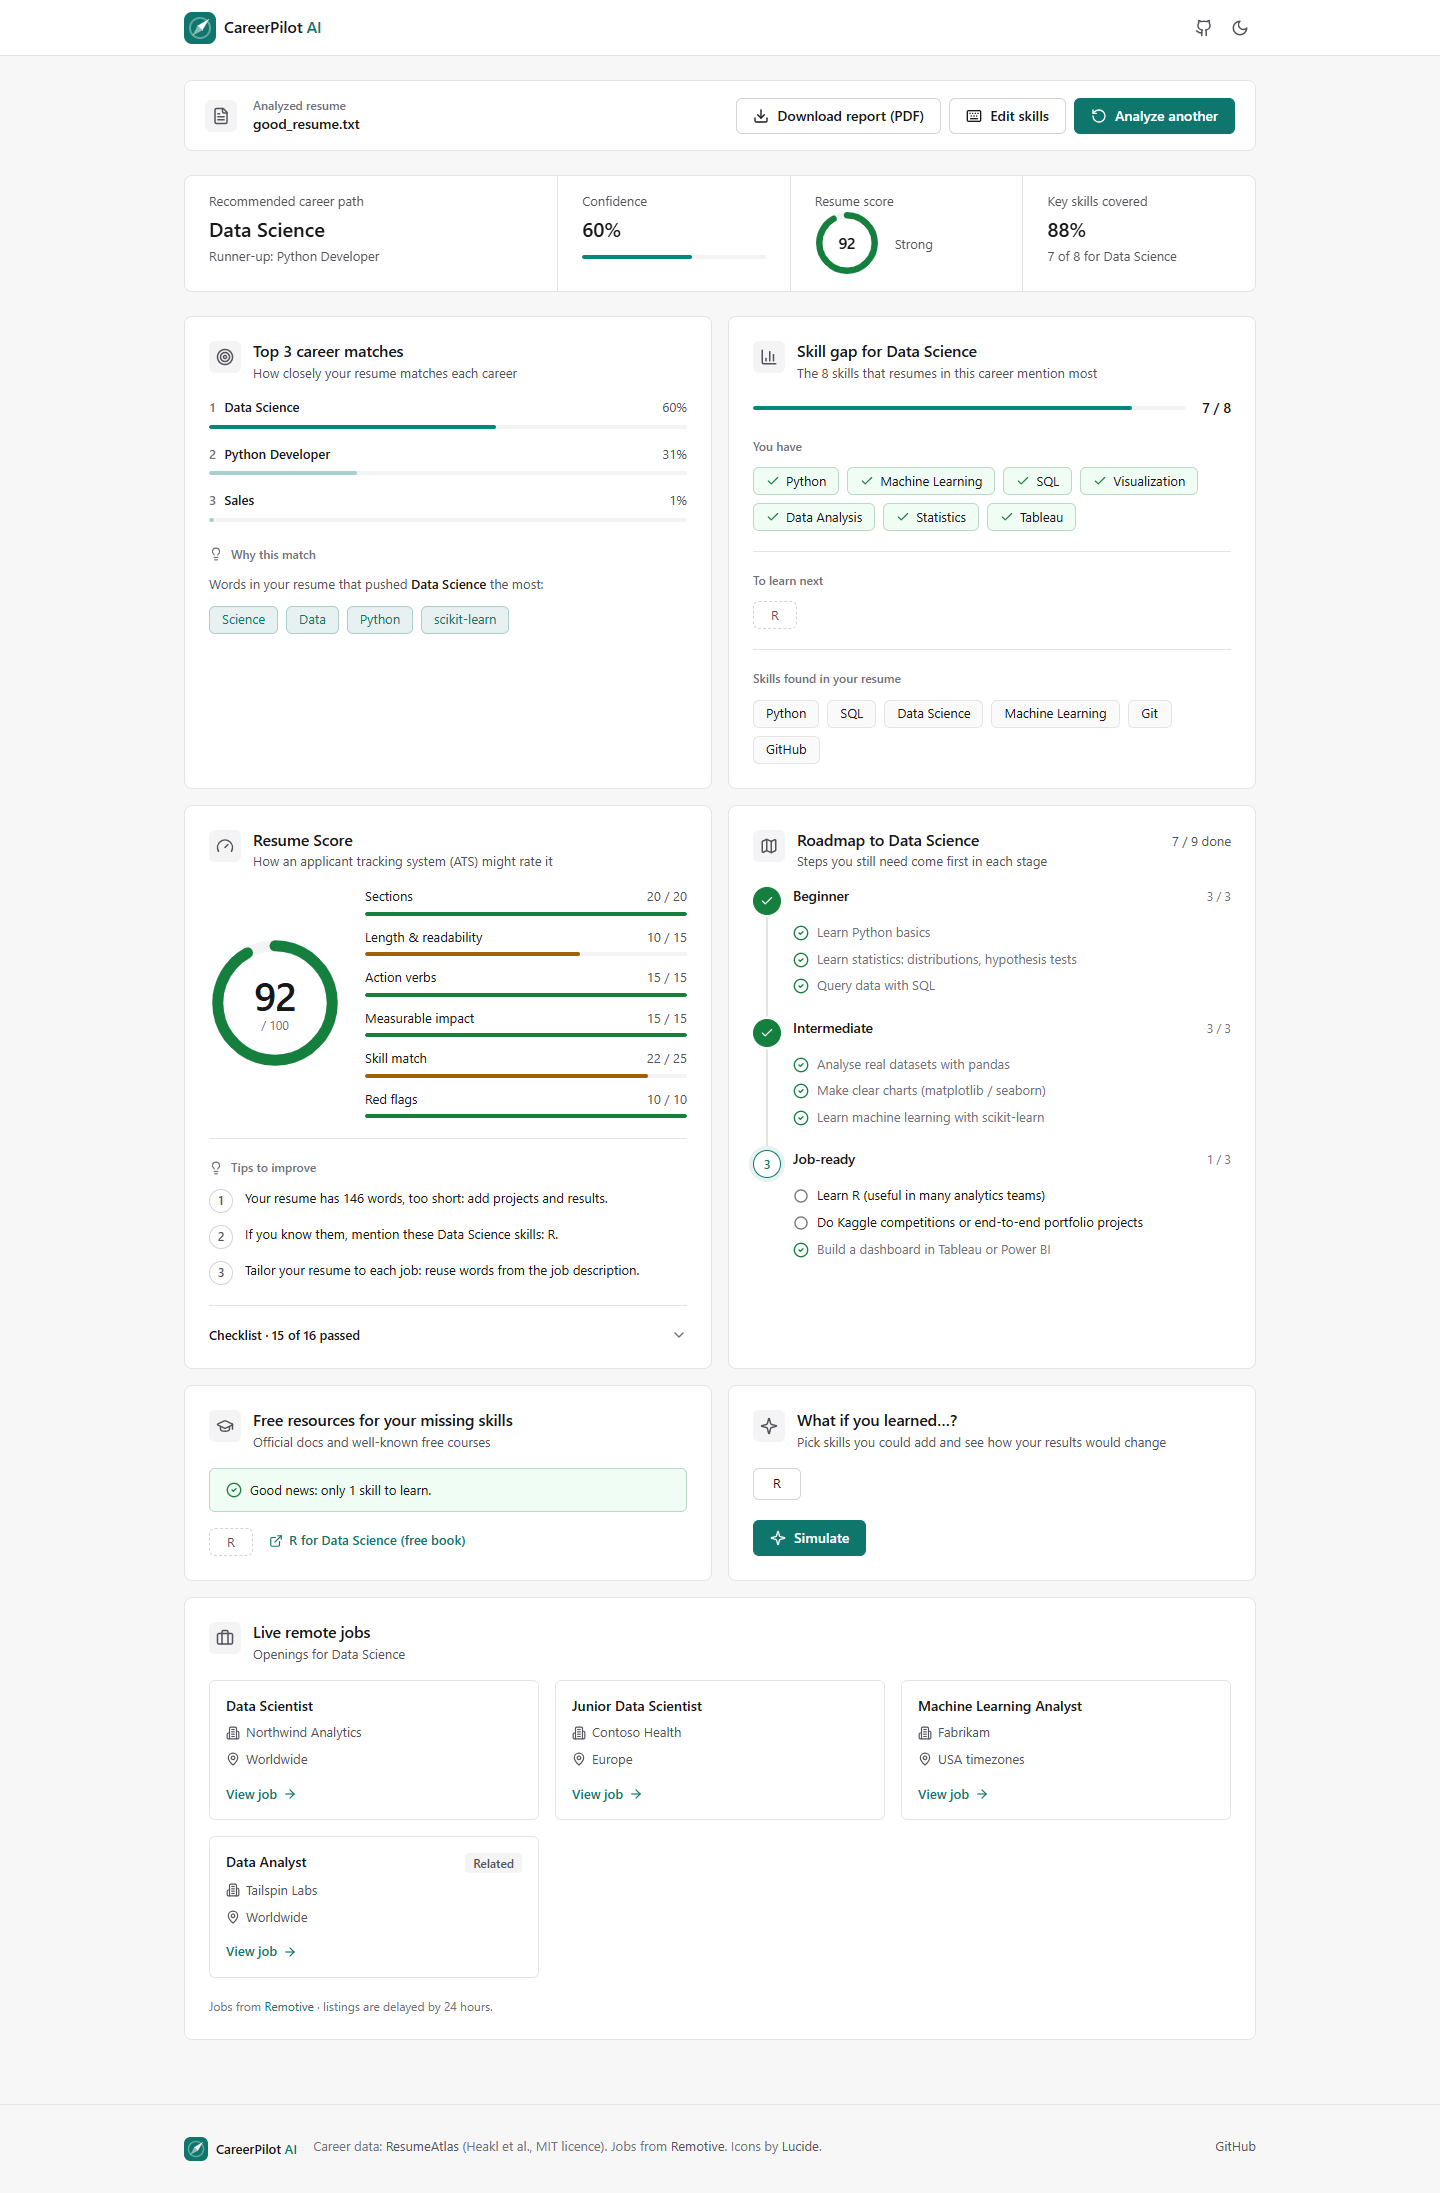
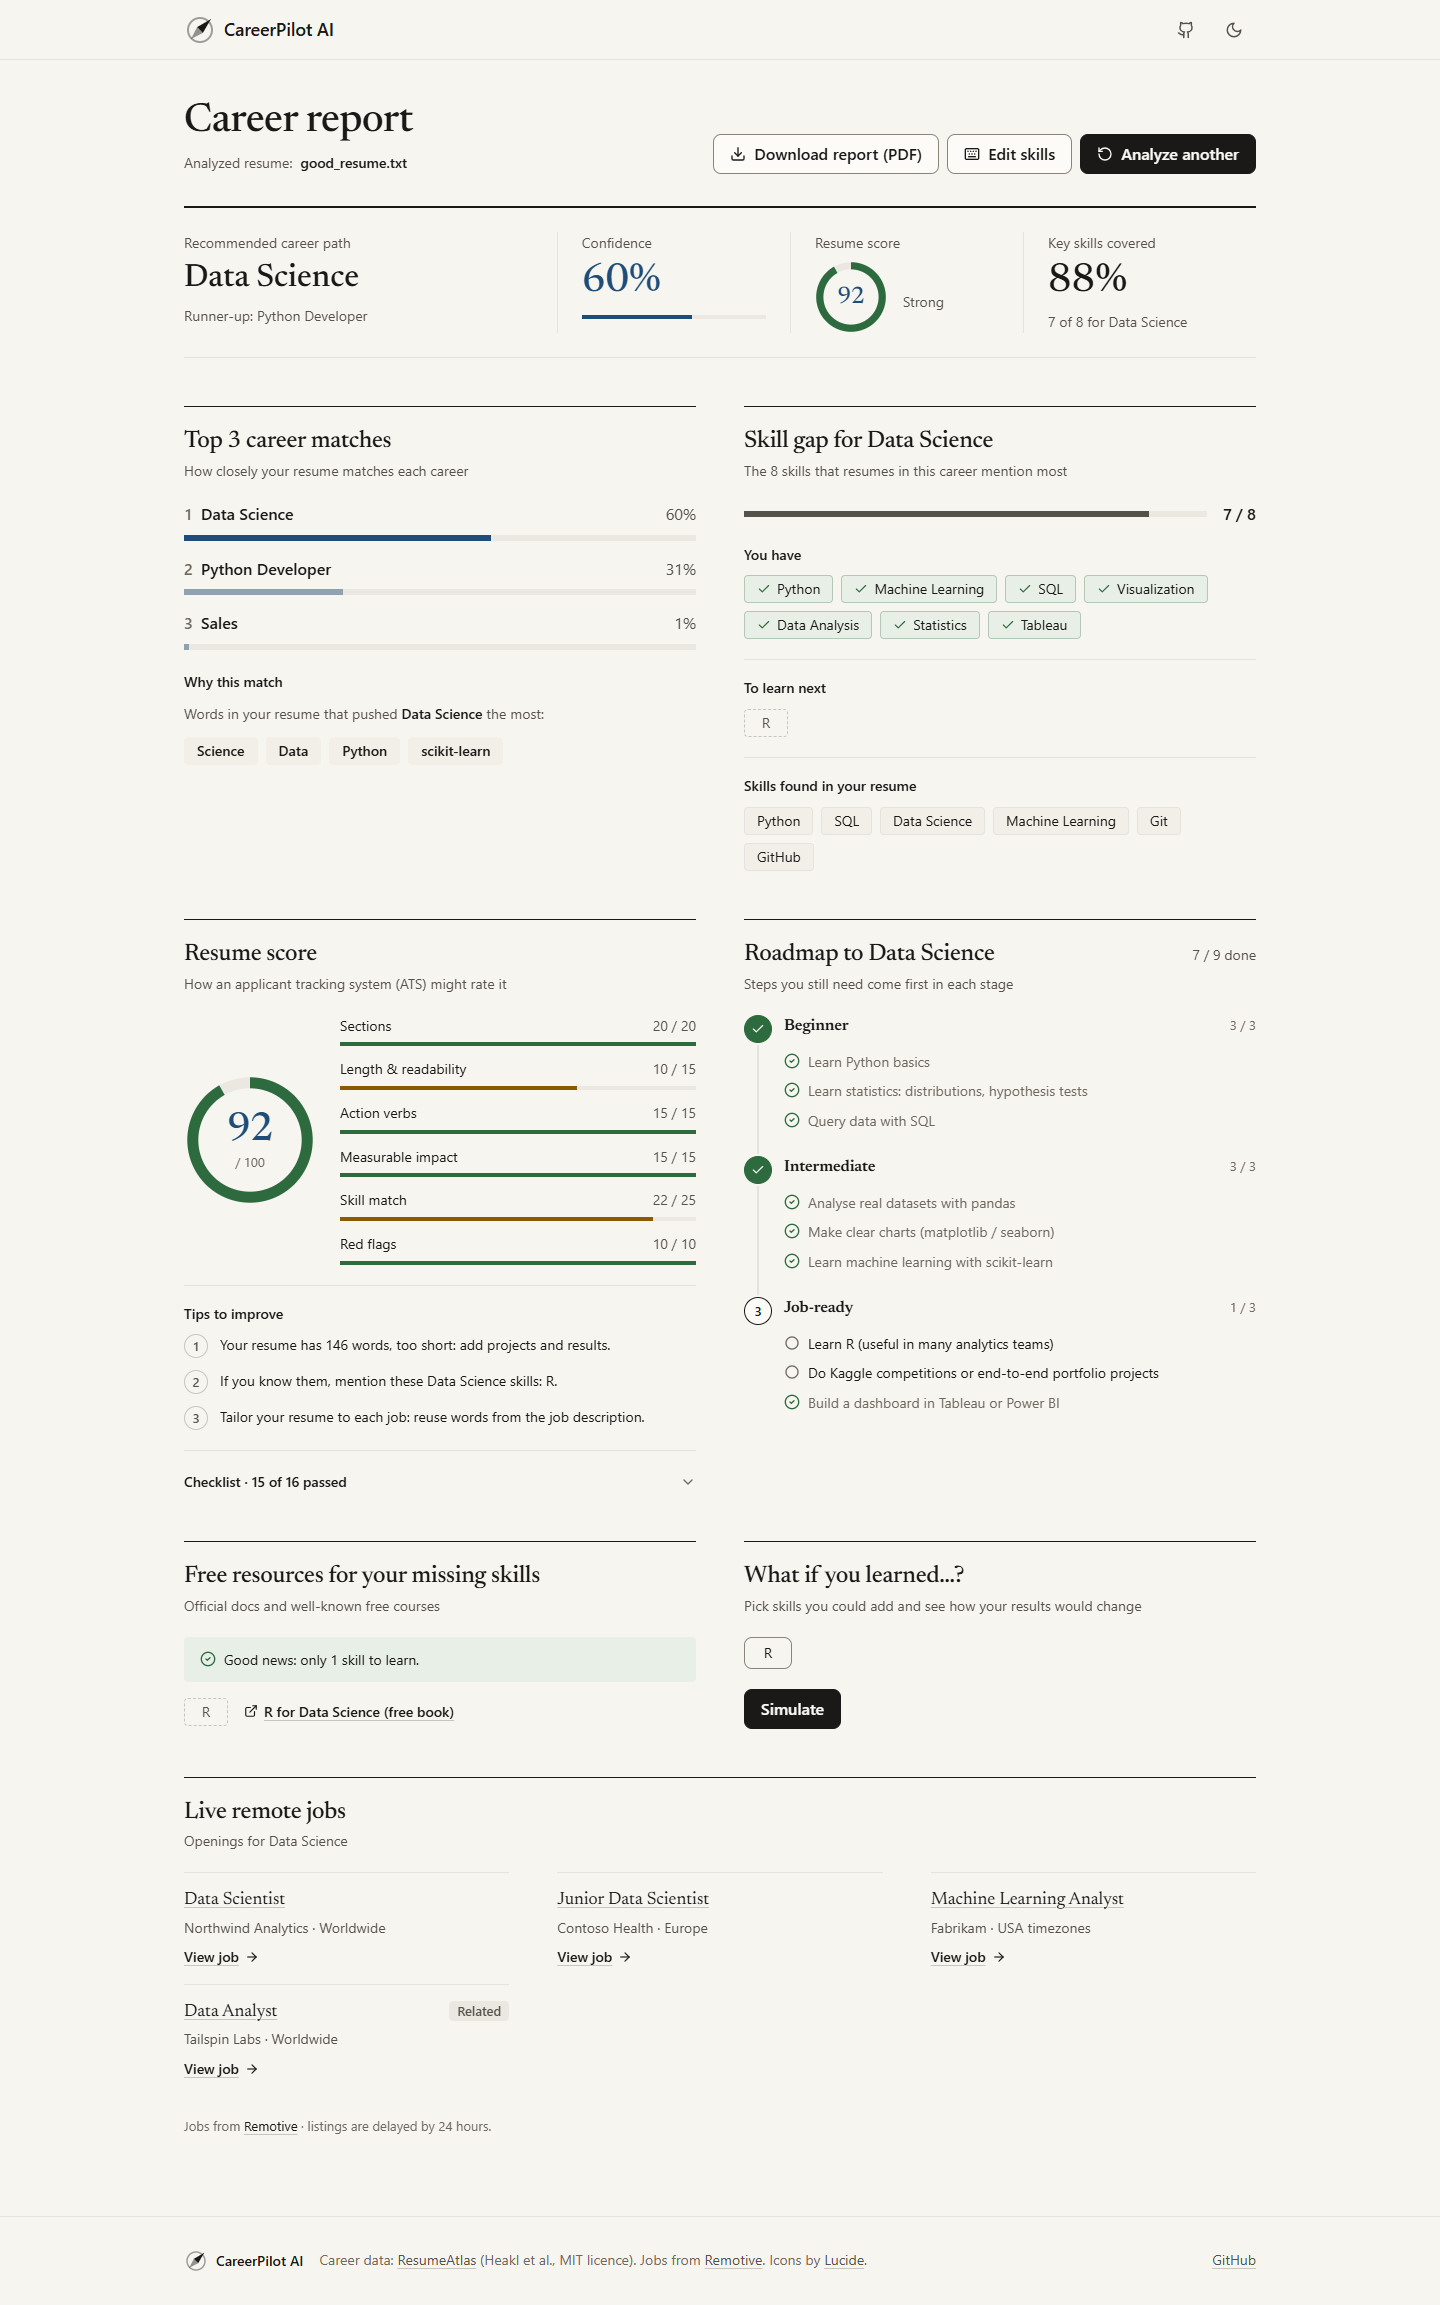
docs: README screenshots of the printed-report design
Regenerated the README screenshots (1440 and 390 px, light and dark) with the sample resume and sample job data: career report, home page and loading steps. README table updated, theme.css added to the file list. 'before-*' screenshots are kept for comparison.

diff --git a/README.md b/README.md
@@ -6,21 +6,25 @@ A Flask web app that reads your resume (or the skills you type), predicts the ca
 
 ## Screenshots
 
-Screenshots use the sample resume `tests/fixtures/good_resume.txt` and **sample job data** (the live jobs list changes every day).
+Screenshots use the sample resume `tests/fixtures/good_resume.txt` and **sample job data** (the live jobs list changes every day). The design reads like a printed career report: warm paper, black ink, Newsreader headings, and one blue accent kept for the score, the confidence figure and the career-match bars.
 
-| Desktop, light (sample job data) | Desktop, dark (sample job data) |
+| Career report, desktop, light (sample job data) | Career report, desktop, dark (sample job data) |
 |---|---|
-| ![Results dashboard in light mode, with sample job data](docs/screenshots/after-result-desktop-light.png) | ![Results dashboard in dark mode, with sample job data](docs/screenshots/after-result-desktop-dark.png) |
+| ![Career report in light mode, with sample job data](docs/screenshots/after-result-desktop-light.png) | ![Career report in dark mode, with sample job data](docs/screenshots/after-result-desktop-dark.png) |
 
-| Phone 390 px, light (sample job data) | Phone 390 px, dark (sample job data) | Before the redesign (sample job data) |
+| Career report, phone 390 px, light | Career report, phone 390 px, dark | Before the redesign |
 |---|---|---|
-| <img src="docs/screenshots/after-result-mobile-light.png" alt="Results on a phone in light mode, with sample job data" width="240"> | <img src="docs/screenshots/after-result-mobile-dark.png" alt="Results on a phone in dark mode, with sample job data" width="240"> | <img src="docs/screenshots/before-result-mobile-dark.png" alt="The old single-column design, with sample job data" width="240"> |
+| <img src="docs/screenshots/after-result-mobile-light.png" alt="Career report on a phone in light mode, with sample job data" width="240"> | <img src="docs/screenshots/after-result-mobile-dark.png" alt="Career report on a phone in dark mode, with sample job data" width="240"> | <img src="docs/screenshots/before-result-mobile-dark.png" alt="The old single-column design, with sample job data" width="240"> |
 
-| Loading steps | Link preview image (Open Graph, 1200 x 630) |
+| Home, desktop, light | Home, desktop, dark |
 |---|---|
-| ![Loading state with steps](docs/screenshots/after-loading-desktop-light.png) | ![Link preview card](docs/screenshots/og-image.png) |
+| ![Home page in light mode: headline beside the upload card](docs/screenshots/after-home-desktop-light.png) | ![Home page in dark mode](docs/screenshots/after-home-desktop-dark.png) |
 
-All screenshots (before/after, 1440 px and 390 px, light and dark) are in [`docs/screenshots/`](docs/screenshots/).
+| Home, phone 390 px, light | Home, phone 390 px, dark | Loading steps | Link preview (1200 x 630) |
+|---|---|---|---|
+| <img src="docs/screenshots/after-home-mobile-light.png" alt="Home page on a phone in light mode" width="200"> | <img src="docs/screenshots/after-home-mobile-dark.png" alt="Home page on a phone in dark mode" width="200"> | ![Loading state with steps](docs/screenshots/after-loading-desktop-light.png) | ![Link preview card](docs/screenshots/og-image.png) |
+
+All screenshots (before/after, 1440 px and 390 px, light and dark) are in [`docs/screenshots/`](docs/screenshots/). The design rules (colours, type, radius, components) are in [`DESIGN.md`](DESIGN.md).
 
 ## Features
 
@@ -121,7 +125,8 @@ To rebuild the dataset from Hugging Face: `python data/prepare_data.py`
 | `data/prepare_data.py` | Downloads and cleans ResumeAtlas |
 | `skills.json`, `roadmaps.json`, `courses.json` | Per career: key `skills` + `job_keywords`; roadmaps; free courses per skill |
 | `templates/` | `index.html` (layout) + `partials/` (one file per section/card, `macros.html` for icons and the score ring) |
-| `static/css/app.css` | The design system: color/spacing/radius/shadow/type tokens, light + dark themes, all components |
+| `static/css/theme.css` | Design tokens: colours, type, spacing, radius, light + dark (see `DESIGN.md`) |
+| `static/css/app.css` | Components and layout, using only the tokens from `theme.css` |
 | `static/img/` | Logo (`logo.svg`, `logo-dark.svg`), favicons (`favicon.svg`, 32 px PNG, 180 px apple-touch-icon) and the 1200 x 630 link preview `og-image.png` |
 | `tools/` | `make_brand_assets.py` rebuilds everything in `static/img/` (dev only, needs Pillow); `og-image.html` is the source of the link preview |
 | `static/js/app.js` | Theme toggle, tabs, drag-and-drop upload, loading state, microphone, What-If Simulator |
